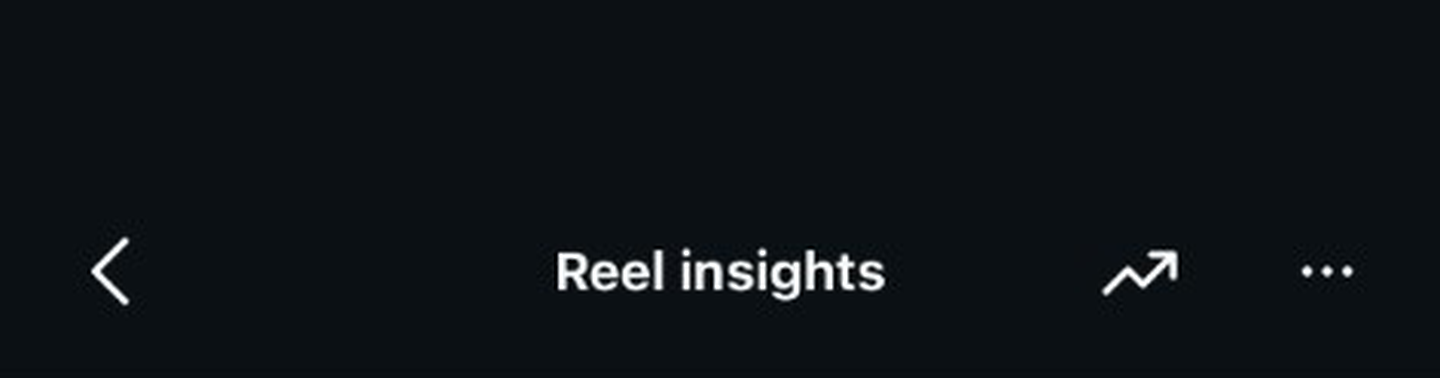
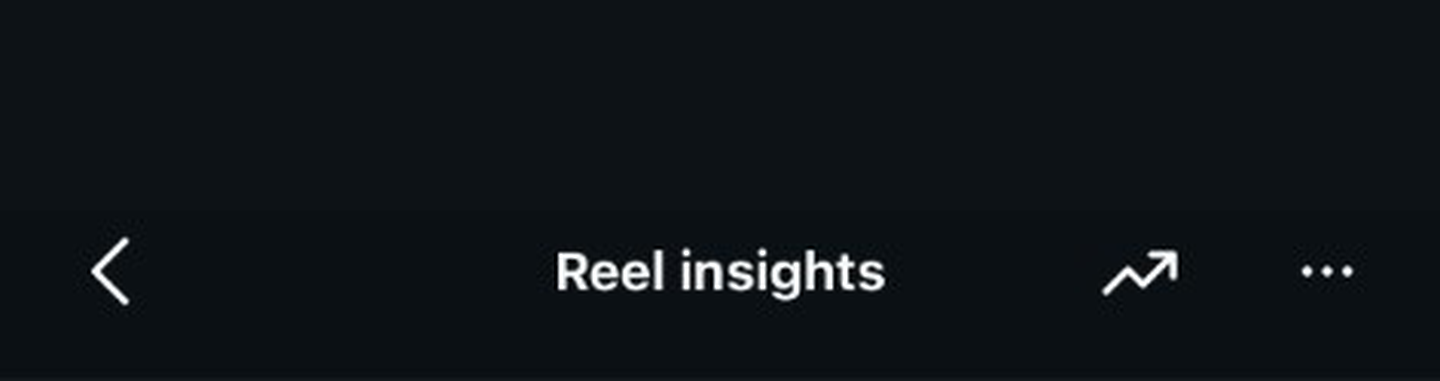
Reel insights /1: Country tab selected (corrected screenshots)
Restitch from the corrected screenshots showing the Country tab (India 49.4 / Brazil 6.9 / Indonesia 5.3 / Turkey 4.1 / United States 4.1). Header detection now skips the status-bar zone (shots differed by a location arrow); baked home-indicator pill dark-filled so it doesn't scroll with content. v=24 on one.html.

diff --git a/one.html b/one.html
@@ -7,8 +7,8 @@
 <meta name="mobile-web-app-capable" content="yes">
 <meta name="apple-mobile-web-app-status-bar-style" content="black-translucent">
 <meta name="theme-color" content="#000000">
-<link rel="manifest" href="manifest_one.json?v=23">
-<link rel="apple-touch-icon" href="icon.png?v=23">
+<link rel="manifest" href="manifest_one.json?v=24">
+<link rel="apple-touch-icon" href="icon.png?v=24">
 <title>Instagram</title>
 <script>if('serviceWorker' in navigator){navigator.serviceWorker.register('sw.js');}</script>
 <style>
@@ -25,8 +25,8 @@
 </style>
 </head>
 <body>
-  <div id="hdr"><img src="screens/reel_header.png?v=23" alt=""></div>
-  <img src="screens/reel_full.png?v=23" alt="">
+  <div id="hdr"><img src="screens/reel_header.png?v=24" alt=""></div>
+  <img src="screens/reel_full.png?v=24" alt="">
   <div id="pad"></div>
 <script>
   // hard-disable zoom (iOS ignores user-scalable in some versions)